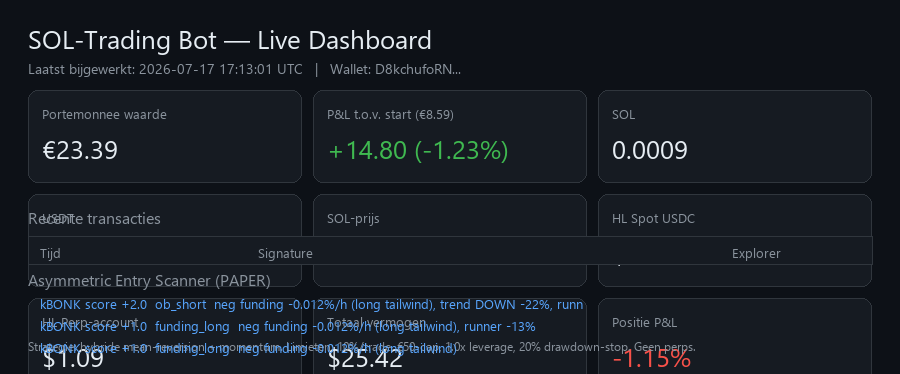
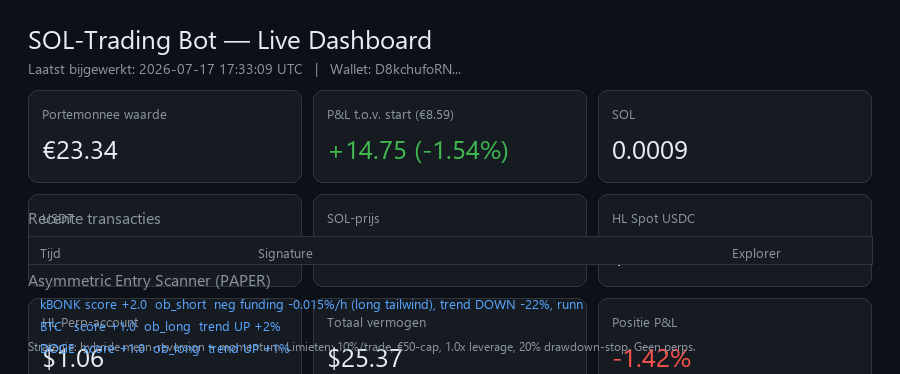
Update dashboard

diff --git a/dashboard.html b/dashboard.html
@@ -18,21 +18,21 @@ th{color:#8b949e;font-weight:600}a{color:#58a6ff;text-decoration:none}
 .posbanner.short{border-color:#f85149;background:#241010;color:#e6edf3}
 </style></head><body>
 <h1>SOL-Trading Bot — Live Dashboard</h1>
-<div class="sub">Laatst bijgewerkt: 2026-07-17 17:13:01 UTC &nbsp;|&nbsp; Wallet: D8kchufoRN...</div>
+<div class="sub">Laatst bijgewerkt: 2026-07-17 17:33:09 UTC &nbsp;|&nbsp; Wallet: D8kchufoRN...</div>
 <div class="grid">
-  <div class="card"><div class="l">Portemonnee waarde</div><div class="v">€23.39</div></div>
-  <div class="card"><div class="l">Trading P&L (positie)</div><div class="v pos">+14.80 (€+14.80) / -1.23%</div></div>
-  <div class="card"><div class="l">P&L netto na fees</div><div class="v pos">€+14.78 / +172.10%</div></div>
+  <div class="card"><div class="l">Portemonnee waarde</div><div class="v">€23.34</div></div>
+  <div class="card"><div class="l">Trading P&L (positie)</div><div class="v pos">+14.75 (€+14.75) / -1.54%</div></div>
+  <div class="card"><div class="l">P&L netto na fees</div><div class="v pos">€+14.73 / +171.53%</div></div>
   <div class="card"><div class="l">SOL</div><div class="v">0.0009</div></div>
   <div class="card"><div class="l">USDT</div><div class="v">0.0062</div></div>
-  <div class="card"><div class="l">SOL-prijs</div><div class="v">€65.82</div></div>
-  <div class="card"><div class="l">HL Spot USDC</div><div class="v">$24.26</div></div>
-  <div class="card"><div class="l">HL Perp-account</div><div class="v">$1.09</div></div>
-  <div class="card"><div class="l">Totaal vermogen</div><div class="v">$25.42</div></div>
+  <div class="card"><div class="l">SOL-prijs</div><div class="v">€65.79</div></div>
+  <div class="card"><div class="l">HL Spot USDC</div><div class="v">$24.23</div></div>
+  <div class="card"><div class="l">HL Perp-account</div><div class="v">$1.06</div></div>
+  <div class="card"><div class="l">Totaal vermogen</div><div class="v">$25.37</div></div>
   <div class="card"><div class="l">Gerealiseerde P&L (HL)</div><div class="v neg">$-0.1530</div></div>
-  <div class="card"><div class="l">Positie P&L (perp)</div><div class="v neg">-1.15%</div></div>
+  <div class="card"><div class="l">Positie P&L (perp)</div><div class="v neg">-1.42%</div></div>
 </div>
-<div class='posbanner short'><b>● LIVE POSITIE: kBONK SHORT</b> &nbsp;|&nbsp; entry $0.0032 &nbsp;|&nbsp; nu $0.0032 &nbsp;|&nbsp; size 3746.00 &nbsp;|&nbsp; P&L <b class='neg'>-1.15%</b><br><span style='font-size:12px;color:#8b949e'>stop -20% · TP1 +25% (50% lock) · TP2 +50% (rest) · trailer lockt winst</span></div>
+<div class='posbanner short'><b>● LIVE POSITIE: kBONK SHORT</b> &nbsp;|&nbsp; entry $0.0032 &nbsp;|&nbsp; nu $0.0032 &nbsp;|&nbsp; size 3746.00 &nbsp;|&nbsp; P&L <b class='neg'>-1.42%</b><br><span style='font-size:12px;color:#8b949e'>stop -20% · TP1 +25% (50% lock) · TP2 +50% (rest) · trailer lockt winst</span></div>
 <h3 style="font-size:15px;color:#8b949e">HL Trade Historie (gerealiseerde PnL)</h3>
 <table><tr><th>Tijd</th><th>Coin</th><th>Kant</th><th>Entry</th><th>Exit</th><th>Size</th><th>PnL</th></tr>
 <tr><td>2026-07-17 16:42</td><td>kBONK</td><td><span class='badge short'>Open Short</span></td><td>$0.0032</td><td>$0.0032</td><td>3746.00</td><td class='pos'>+0.0000</td></tr><tr><td>2026-07-17 16:36</td><td>kBONK</td><td><span class='badge short'>Close Short</span></td><td>$0.0032</td><td>$0.0032</td><td>7470.00</td><td class='pos'>+0.0896</td></tr><tr><td>2026-07-17 16:36</td><td>kBONK</td><td><span class='badge short'>Open Short</span></td><td>$0.0032</td><td>$0.0032</td><td>3755.00</td><td class='pos'>+0.0000</td></tr><tr><td>2026-07-17 16:12</td><td>kBONK</td><td><span class='badge short'>Open Short</span></td><td>$0.0032</td><td>$0.0032</td><td>3715.00</td><td class='pos'>+0.0000</td></tr><tr><td>2026-07-17 16:11</td><td>kBONK</td><td><span class='badge short'>Close Short</span></td><td>$0.0032</td><td>$0.0032</td><td>11202.00</td><td class='neg'>-0.2464</td></tr><tr><td>2026-07-17 16:11</td><td>kBONK</td><td><span class='badge short'>Open Short</span></td><td>$0.0032</td><td>$0.0032</td><td>3720.00</td><td class='pos'>+0.0000</td></tr><tr><td>2026-07-17 16:11</td><td>kBONK</td><td><span class='badge short'>Open Short</span></td><td>$0.0032</td><td>$0.0032</td><td>3700.00</td><td class='pos'>+0.0000</td></tr><tr><td>2026-07-17 15:20</td><td>kBONK</td><td><span class='badge short'>Open Short</span></td><td>$0.0032</td><td>$0.0032</td><td>3782.00</td><td class='pos'>+0.0000</td></tr><tr><td>2026-07-17 15:17</td><td>kBONK</td><td><span class='badge short'>Close Short</span></td><td>$0.0032</td><td>$0.0032</td><td>3781.00</td><td class='pos'>+0.0000</td></tr><tr><td>2026-07-17 15:17</td><td>kBONK</td><td><span class='badge short'>Open Short</span></td><td>$0.0032</td><td>$0.0032</td><td>3781.00</td><td class='pos'>+0.0000</td></tr><tr><td>2026-07-17 15:16</td><td>WIF</td><td><span class='badge short'>Close Short</span></td><td>$0.1525</td><td>$0.1525</td><td>79.00</td><td class='neg'>-0.0040</td></tr><tr><td>2026-07-17 15:16</td><td>kBONK</td><td><span class='badge short'>Close Short</span></td><td>$0.0032</td><td>$0.0032</td><td>3780.00</td><td class='pos'>+0.0113</td></tr><tr><td>2026-07-17 15:16</td><td>kPEPE</td><td><span class='badge short'>Close Short</span></td><td>$0.0027</td><td>$0.0027</td><td>4469.00</td><td class='pos'>+0.0000</td></tr><tr><td>2026-07-17 15:15</td><td>ETH</td><td><span class='badge short'>Close Short</span></td><td>$1813.7000</td><td>$1813.7000</td><td>0.01</td><td class='neg'>-0.0040</td></tr><tr><td>2026-07-17 15:15</td><td>ETH</td><td><span class='badge short'>Open Short</span></td><td>$1813.1000</td><td>$1813.1000</td><td>0.01</td><td class='pos'>+0.0000</td></tr><tr><td>2026-07-17 15:15</td><td>SOL</td><td><span class='badge short'>Close Short</span></td><td>$73.8960</td><td>$73.8960</td><td>0.16</td><td class='neg'>-0.0002</td></tr><tr><td>2026-07-17 15:15</td><td>SOL</td><td><span class='badge short'>Open Short</span></td><td>$73.8950</td><td>$73.8950</td><td>0.16</td><td class='pos'>+0.0000</td></tr><tr><td>2026-07-17 15:15</td><td>DOGE</td><td><span class='badge short'>Close Short</span></td><td>$0.0716</td><td>$0.0716</td><td>168.00</td><td class='pos'>+0.0005</td></tr><tr><td>2026-07-17 15:15</td><td>DOGE</td><td><span class='badge short'>Open Short</span></td><td>$0.0716</td><td>$0.0716</td><td>168.00</td><td class='pos'>+0.0000</td></tr><tr><td>2026-07-17 15:15</td><td>WIF</td><td><span class='badge short'>Open Short</span></td><td>$0.1524</td><td>$0.1524</td><td>79.00</td><td class='pos'>+0.0000</td></tr>

diff --git a/index.html b/index.html
@@ -18,21 +18,21 @@ th{color:#8b949e;font-weight:600}a{color:#58a6ff;text-decoration:none}
 .posbanner.short{border-color:#f85149;background:#241010;color:#e6edf3}
 </style></head><body>
 <h1>SOL-Trading Bot — Live Dashboard</h1>
-<div class="sub">Laatst bijgewerkt: 2026-07-17 17:13:01 UTC &nbsp;|&nbsp; Wallet: D8kchufoRN...</div>
+<div class="sub">Laatst bijgewerkt: 2026-07-17 17:33:09 UTC &nbsp;|&nbsp; Wallet: D8kchufoRN...</div>
 <div class="grid">
-  <div class="card"><div class="l">Portemonnee waarde</div><div class="v">€23.39</div></div>
-  <div class="card"><div class="l">Trading P&L (positie)</div><div class="v pos">+14.80 (€+14.80) / -1.23%</div></div>
-  <div class="card"><div class="l">P&L netto na fees</div><div class="v pos">€+14.78 / +172.10%</div></div>
+  <div class="card"><div class="l">Portemonnee waarde</div><div class="v">€23.34</div></div>
+  <div class="card"><div class="l">Trading P&L (positie)</div><div class="v pos">+14.75 (€+14.75) / -1.54%</div></div>
+  <div class="card"><div class="l">P&L netto na fees</div><div class="v pos">€+14.73 / +171.53%</div></div>
   <div class="card"><div class="l">SOL</div><div class="v">0.0009</div></div>
   <div class="card"><div class="l">USDT</div><div class="v">0.0062</div></div>
-  <div class="card"><div class="l">SOL-prijs</div><div class="v">€65.82</div></div>
-  <div class="card"><div class="l">HL Spot USDC</div><div class="v">$24.26</div></div>
-  <div class="card"><div class="l">HL Perp-account</div><div class="v">$1.09</div></div>
-  <div class="card"><div class="l">Totaal vermogen</div><div class="v">$25.42</div></div>
+  <div class="card"><div class="l">SOL-prijs</div><div class="v">€65.79</div></div>
+  <div class="card"><div class="l">HL Spot USDC</div><div class="v">$24.23</div></div>
+  <div class="card"><div class="l">HL Perp-account</div><div class="v">$1.06</div></div>
+  <div class="card"><div class="l">Totaal vermogen</div><div class="v">$25.37</div></div>
   <div class="card"><div class="l">Gerealiseerde P&L (HL)</div><div class="v neg">$-0.1530</div></div>
-  <div class="card"><div class="l">Positie P&L (perp)</div><div class="v neg">-1.15%</div></div>
+  <div class="card"><div class="l">Positie P&L (perp)</div><div class="v neg">-1.42%</div></div>
 </div>
-<div class='posbanner short'><b>● LIVE POSITIE: kBONK SHORT</b> &nbsp;|&nbsp; entry $0.0032 &nbsp;|&nbsp; nu $0.0032 &nbsp;|&nbsp; size 3746.00 &nbsp;|&nbsp; P&L <b class='neg'>-1.15%</b><br><span style='font-size:12px;color:#8b949e'>stop -20% · TP1 +25% (50% lock) · TP2 +50% (rest) · trailer lockt winst</span></div>
+<div class='posbanner short'><b>● LIVE POSITIE: kBONK SHORT</b> &nbsp;|&nbsp; entry $0.0032 &nbsp;|&nbsp; nu $0.0032 &nbsp;|&nbsp; size 3746.00 &nbsp;|&nbsp; P&L <b class='neg'>-1.42%</b><br><span style='font-size:12px;color:#8b949e'>stop -20% · TP1 +25% (50% lock) · TP2 +50% (rest) · trailer lockt winst</span></div>
 <h3 style="font-size:15px;color:#8b949e">HL Trade Historie (gerealiseerde PnL)</h3>
 <table><tr><th>Tijd</th><th>Coin</th><th>Kant</th><th>Entry</th><th>Exit</th><th>Size</th><th>PnL</th></tr>
 <tr><td>2026-07-17 16:42</td><td>kBONK</td><td><span class='badge short'>Open Short</span></td><td>$0.0032</td><td>$0.0032</td><td>3746.00</td><td class='pos'>+0.0000</td></tr><tr><td>2026-07-17 16:36</td><td>kBONK</td><td><span class='badge short'>Close Short</span></td><td>$0.0032</td><td>$0.0032</td><td>7470.00</td><td class='pos'>+0.0896</td></tr><tr><td>2026-07-17 16:36</td><td>kBONK</td><td><span class='badge short'>Open Short</span></td><td>$0.0032</td><td>$0.0032</td><td>3755.00</td><td class='pos'>+0.0000</td></tr><tr><td>2026-07-17 16:12</td><td>kBONK</td><td><span class='badge short'>Open Short</span></td><td>$0.0032</td><td>$0.0032</td><td>3715.00</td><td class='pos'>+0.0000</td></tr><tr><td>2026-07-17 16:11</td><td>kBONK</td><td><span class='badge short'>Close Short</span></td><td>$0.0032</td><td>$0.0032</td><td>11202.00</td><td class='neg'>-0.2464</td></tr><tr><td>2026-07-17 16:11</td><td>kBONK</td><td><span class='badge short'>Open Short</span></td><td>$0.0032</td><td>$0.0032</td><td>3720.00</td><td class='pos'>+0.0000</td></tr><tr><td>2026-07-17 16:11</td><td>kBONK</td><td><span class='badge short'>Open Short</span></td><td>$0.0032</td><td>$0.0032</td><td>3700.00</td><td class='pos'>+0.0000</td></tr><tr><td>2026-07-17 15:20</td><td>kBONK</td><td><span class='badge short'>Open Short</span></td><td>$0.0032</td><td>$0.0032</td><td>3782.00</td><td class='pos'>+0.0000</td></tr><tr><td>2026-07-17 15:17</td><td>kBONK</td><td><span class='badge short'>Close Short</span></td><td>$0.0032</td><td>$0.0032</td><td>3781.00</td><td class='pos'>+0.0000</td></tr><tr><td>2026-07-17 15:17</td><td>kBONK</td><td><span class='badge short'>Open Short</span></td><td>$0.0032</td><td>$0.0032</td><td>3781.00</td><td class='pos'>+0.0000</td></tr><tr><td>2026-07-17 15:16</td><td>WIF</td><td><span class='badge short'>Close Short</span></td><td>$0.1525</td><td>$0.1525</td><td>79.00</td><td class='neg'>-0.0040</td></tr><tr><td>2026-07-17 15:16</td><td>kBONK</td><td><span class='badge short'>Close Short</span></td><td>$0.0032</td><td>$0.0032</td><td>3780.00</td><td class='pos'>+0.0113</td></tr><tr><td>2026-07-17 15:16</td><td>kPEPE</td><td><span class='badge short'>Close Short</span></td><td>$0.0027</td><td>$0.0027</td><td>4469.00</td><td class='pos'>+0.0000</td></tr><tr><td>2026-07-17 15:15</td><td>ETH</td><td><span class='badge short'>Close Short</span></td><td>$1813.7000</td><td>$1813.7000</td><td>0.01</td><td class='neg'>-0.0040</td></tr><tr><td>2026-07-17 15:15</td><td>ETH</td><td><span class='badge short'>Open Short</span></td><td>$1813.1000</td><td>$1813.1000</td><td>0.01</td><td class='pos'>+0.0000</td></tr><tr><td>2026-07-17 15:15</td><td>SOL</td><td><span class='badge short'>Close Short</span></td><td>$73.8960</td><td>$73.8960</td><td>0.16</td><td class='neg'>-0.0002</td></tr><tr><td>2026-07-17 15:15</td><td>SOL</td><td><span class='badge short'>Open Short</span></td><td>$73.8950</td><td>$73.8950</td><td>0.16</td><td class='pos'>+0.0000</td></tr><tr><td>2026-07-17 15:15</td><td>DOGE</td><td><span class='badge short'>Close Short</span></td><td>$0.0716</td><td>$0.0716</td><td>168.00</td><td class='pos'>+0.0005</td></tr><tr><td>2026-07-17 15:15</td><td>DOGE</td><td><span class='badge short'>Open Short</span></td><td>$0.0716</td><td>$0.0716</td><td>168.00</td><td class='pos'>+0.0000</td></tr><tr><td>2026-07-17 15:15</td><td>WIF</td><td><span class='badge short'>Open Short</span></td><td>$0.1524</td><td>$0.1524</td><td>79.00</td><td class='pos'>+0.0000</td></tr>
